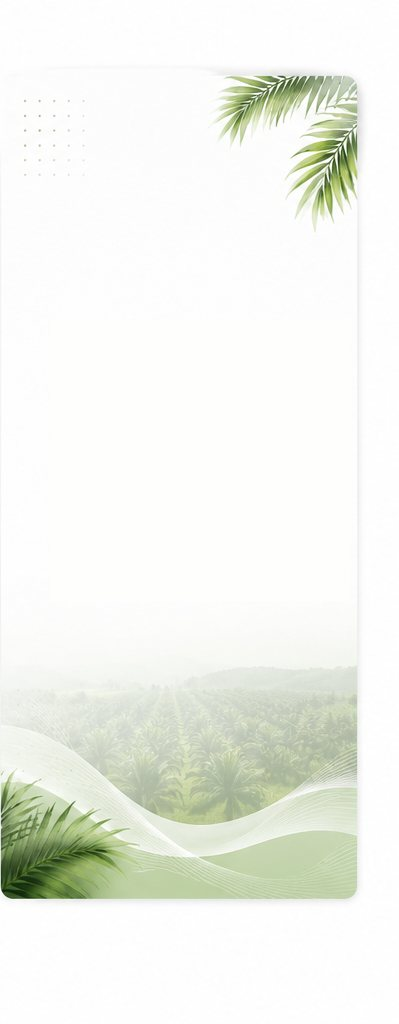
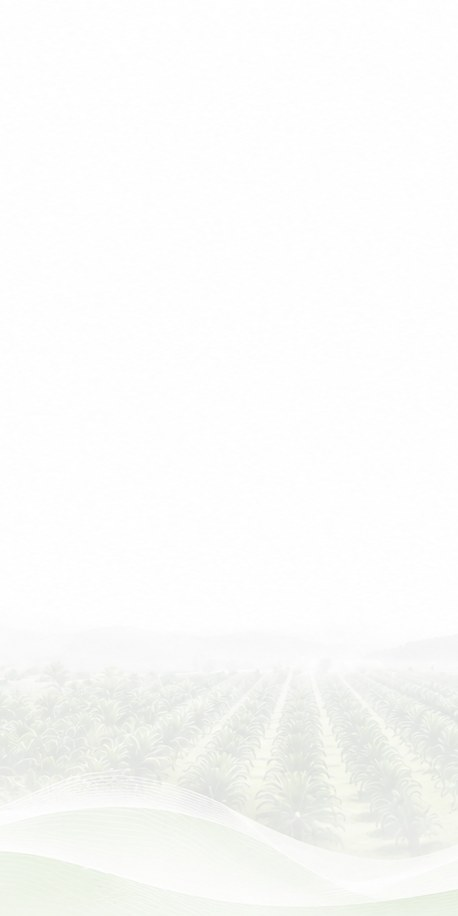
Usar la imagen de fondo definitiva subida por el usuario en el login
Se reemplaza el fondo generado con CSS/SVG por la imagen real
proporcionada (hojas de palma en las esquinas y paisaje de plantación
difuminado con ondas), recortada en variante escritorio y móvil.

Changed region(s): [[0.0, 0.6419, 1.0, 0.917], [0.5414, 0.0611, 0.9023, 0.2445], [0.812, 0.9476, 1.0, 1.0]]

diff --git a/index.html b/index.html
@@ -79,20 +79,8 @@ body{font-family:'DM Sans',sans-serif;background:#f0f2f5;color:#1a1f2e;min-heigh
 .mc-pronto{opacity:.55;cursor:not-allowed;pointer-events:none;}
 
 /* ── LOGIN AGROVISIÓN ───────────────────── */
-#login-screen{position:fixed;inset:0;background:#FFFFFF;display:flex;align-items:center;justify-content:center;z-index:9999;overflow:auto;font-family:"DM Sans",sans-serif;padding:20px;}
+#login-screen{position:fixed;inset:0;background:#FFFFFF url('fondo_login_desktop.jpg') center center no-repeat;background-size:cover;display:flex;align-items:center;justify-content:center;z-index:9999;overflow:auto;font-family:"DM Sans",sans-serif;padding:20px;}
 #login-screen.hidden{display:none;}
-
-/* Decoración de fondo corporativo: hojas suaves en las esquinas + paisaje difuminado */
-.bg-deco{position:absolute;inset:0;overflow:hidden;pointer-events:none;z-index:0;}
-.leaf-corner{position:absolute;width:300px;height:300px;opacity:.1;color:#1f6d3a;}
-.leaf-corner.tl{top:-50px;left:-60px;}
-.leaf-corner.tr{top:-50px;right:-60px;transform:scaleX(-1);}
-.leaf-corner.bl{bottom:-50px;left:-60px;transform:scaleY(-1);}
-.leaf-corner.br{bottom:-50px;right:-60px;transform:scale(-1,-1);}
-.plantation-band{position:absolute;left:0;right:0;bottom:0;height:20%;overflow:hidden;}
-.plantation-photo{position:absolute;inset:0;background-image:url('fondo_login_desktop.jpg');background-size:cover;background-position:center bottom;filter:blur(9px) saturate(.85);opacity:.28;}
-.plantation-fade{position:absolute;top:0;left:0;right:0;height:65%;background:linear-gradient(to bottom,#fff 0%,rgba(255,255,255,0) 100%);z-index:2;}
-.wave-overlay{position:absolute;inset:0;width:100%;height:100%;z-index:3;}
 
 .login-wrap{position:relative;z-index:1;width:100%;max-width:460px;display:flex;flex-direction:column;align-items:center;justify-content:center;}
 .login-brand{display:flex;flex-direction:column;align-items:center;text-align:center;color:#13321f;margin-bottom:18px;}
@@ -129,8 +117,7 @@ body{font-family:'DM Sans',sans-serif;background:#f0f2f5;color:#1a1f2e;min-heigh
 .login-pin-box.active{display:block;}
 .login-card.pin-mode .login-userpass{display:none;}
 @media (max-width:760px){
-  .plantation-photo{background-image:url('fondo_login_mobile.jpg');}
-  .leaf-corner{width:180px;height:180px;}
+  #login-screen{background-image:url('fondo_login_mobile.jpg');}
   .login-brand img{width:110px;height:110px;}
   .login-brand h1{font-size:24px;}
   .login-card{width:100%;padding:28px 22px;}
@@ -140,20 +127,6 @@ body{font-family:'DM Sans',sans-serif;background:#f0f2f5;color:#1a1f2e;min-heigh
 <body>
 
 <div id="login-screen">
-  <div class="bg-deco" aria-hidden="true">
-    <svg class="leaf-corner tl" viewBox="0 0 200 200" fill="currentColor"><path d="M0 0 C 60 10, 110 40, 140 90 C 160 125, 165 160, 160 200 C 150 165, 130 130, 95 105 C 60 80, 25 55, 0 30 Z"/><path d="M0 0 C 40 25, 75 55, 100 95 C 120 128, 130 165, 128 200 C 118 168, 100 138, 72 112 C 45 88, 20 60, 0 25 Z" opacity=".6"/></svg>
-    <svg class="leaf-corner tr" viewBox="0 0 200 200" fill="currentColor"><path d="M0 0 C 60 10, 110 40, 140 90 C 160 125, 165 160, 160 200 C 150 165, 130 130, 95 105 C 60 80, 25 55, 0 30 Z"/><path d="M0 0 C 40 25, 75 55, 100 95 C 120 128, 130 165, 128 200 C 118 168, 100 138, 72 112 C 45 88, 20 60, 0 25 Z" opacity=".6"/></svg>
-    <svg class="leaf-corner bl" viewBox="0 0 200 200" fill="currentColor"><path d="M0 0 C 60 10, 110 40, 140 90 C 160 125, 165 160, 160 200 C 150 165, 130 130, 95 105 C 60 80, 25 55, 0 30 Z"/><path d="M0 0 C 40 25, 75 55, 100 95 C 120 128, 130 165, 128 200 C 118 168, 100 138, 72 112 C 45 88, 20 60, 0 25 Z" opacity=".6"/></svg>
-    <svg class="leaf-corner br" viewBox="0 0 200 200" fill="currentColor"><path d="M0 0 C 60 10, 110 40, 140 90 C 160 125, 165 160, 160 200 C 150 165, 130 130, 95 105 C 60 80, 25 55, 0 30 Z"/><path d="M0 0 C 40 25, 75 55, 100 95 C 120 128, 130 165, 128 200 C 118 168, 100 138, 72 112 C 45 88, 20 60, 0 25 Z" opacity=".6"/></svg>
-    <div class="plantation-band">
-      <div class="plantation-photo"></div>
-      <div class="plantation-fade"></div>
-      <svg class="wave-overlay" viewBox="0 0 1440 220" preserveAspectRatio="none">
-        <path d="M0,140 C 240,90 480,190 720,140 C 960,90 1200,180 1440,130 L1440,220 L0,220 Z" fill="#16a34a" opacity=".10"/>
-        <path d="M0,170 C 260,130 500,210 760,165 C 1000,125 1260,200 1440,160 L1440,220 L0,220 Z" fill="#0B3B24" opacity=".08"/>
-      </svg>
-    </div>
-  </div>
   <div class="login-wrap">
     <div class="login-brand">
       <img src="logo_agrovision_small.png" alt="AgroVisión">